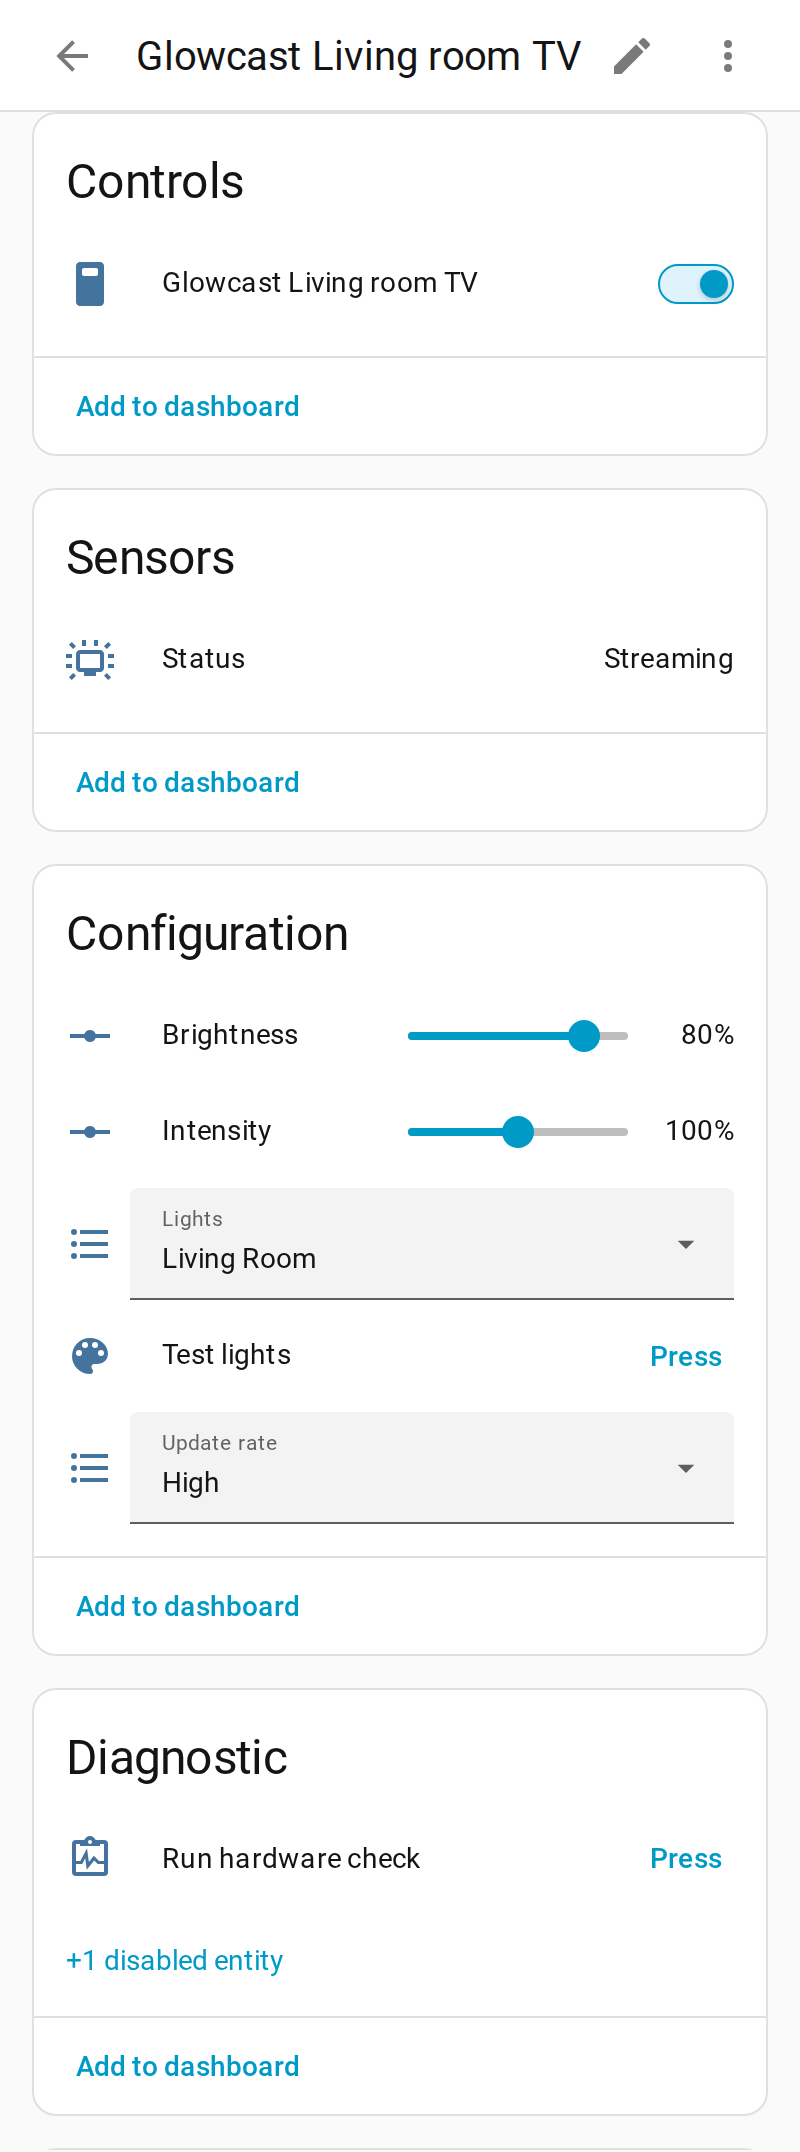
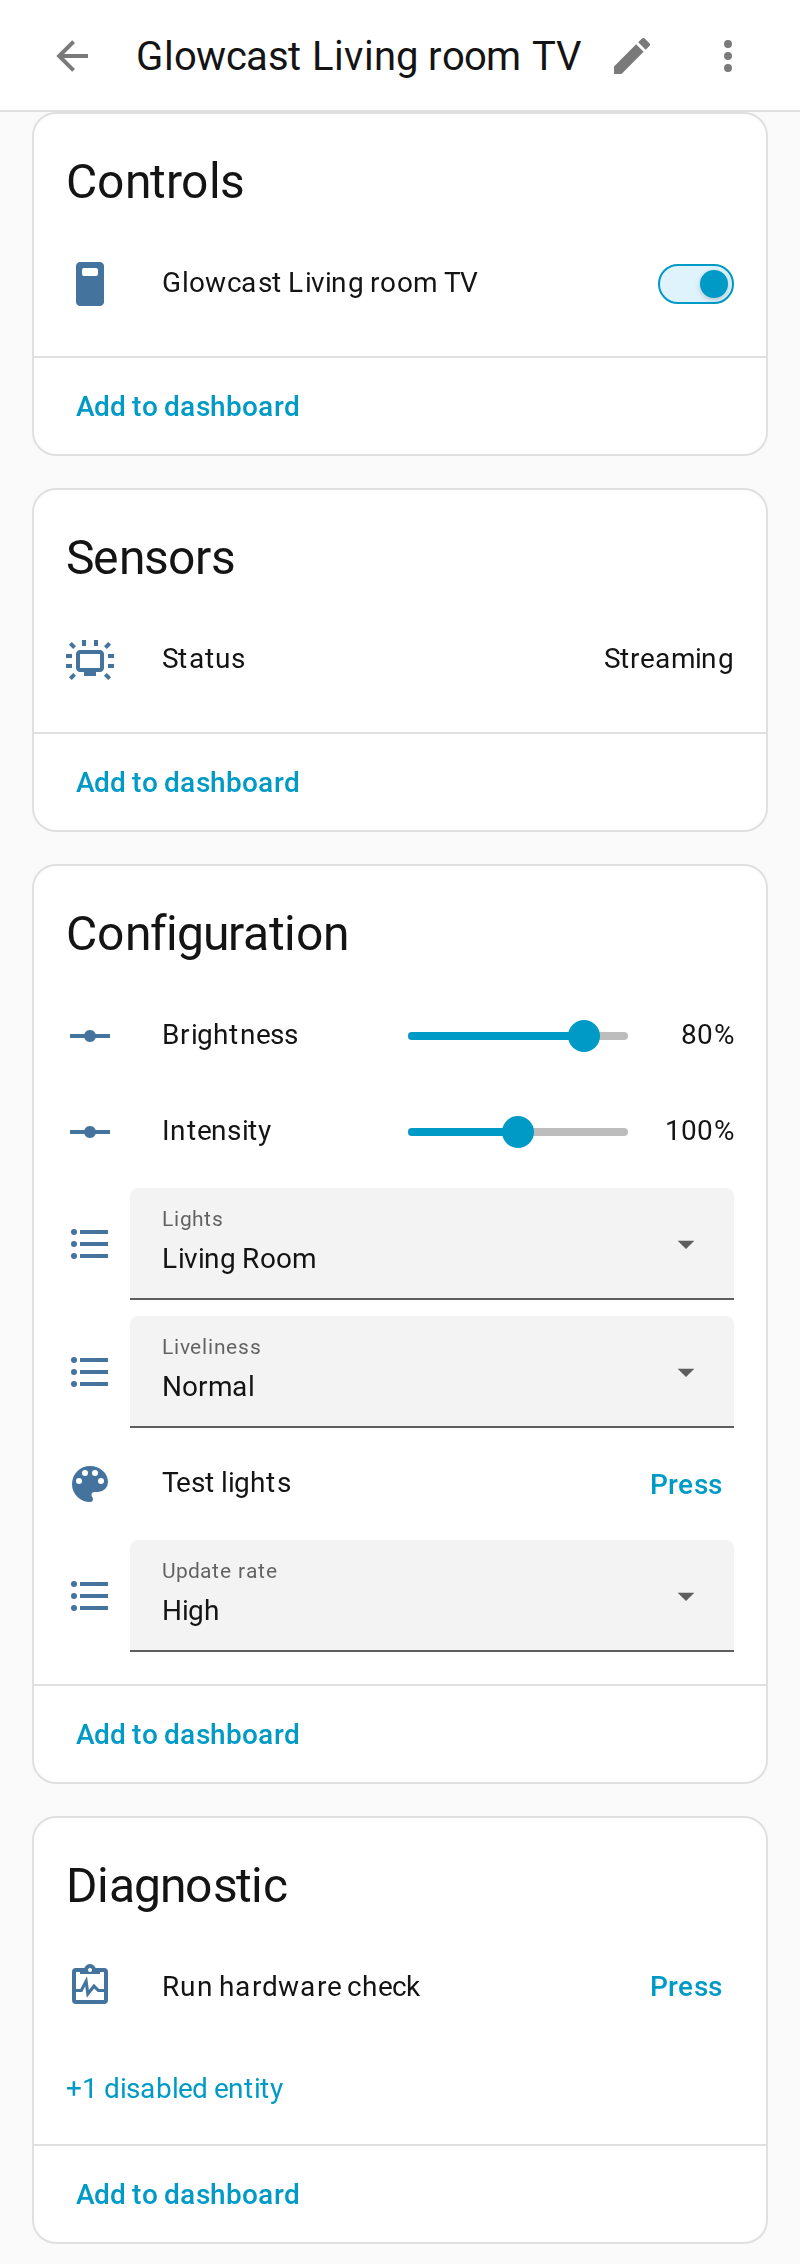
Device page images and the combined settings GIF with Liveliness
Made again from the demo after v0.4.0 came in (#16): the Liveliness
select sits under Configuration and in the settings step. Same framing
as #275 (mobile view, 400 px at scale 2, from Controls down to
Diagnostic), so the images are 56 css px taller (800x2264).

diff --git a/website/pages/docs/home-assistant-lights.md b/website/pages/docs/home-assistant-lights.md
@@ -32,7 +32,7 @@ To check the places, press **Test lights** on Glowcast's device ([Test the light
 
 On Glowcast's device page, under **Configuration**, the **Lights** entity shows what the lights follow: the Home Assistant area or light group, or *Chosen lights* while you use single lights. Pick another area or group there, from a dashboard or with an automation; see [Settings](settings.md#settings-on-the-device-page).
 
-![Glowcast's device page in Home Assistant with Home Assistant lights while syncing: the switch on under Controls, the status Streaming under Sensors, and under Configuration brightness 80 %, intensity 100 %, Lights Living Room, the Test lights button and update rate High, and the Run hardware check button under Diagnostic.](../images/device-page-ha-lights.png){ width="400" loading=lazy }
+![Glowcast's device page in Home Assistant with Home Assistant lights while syncing: the switch on under Controls, the status Streaming under Sensors, and under Configuration brightness 80 %, intensity 100 %, Lights Living Room, liveliness Normal, the Test lights button and update rate High, and the Run hardware check button under Diagnostic.](../images/device-page-ha-lights.png){ width="400" loading=lazy }
 
 *The device page with Home Assistant lights: the switch, the status, and Lights under Configuration.*
 
@@ -71,7 +71,7 @@ One Glowcast can drive an entertainment area and Home Assistant lights together,
 - Only when both are lost does Glowcast stop, as it does for one.
 - Switching off (or the picture source off, or Home Assistant stopping) releases the area and puts every Home Assistant light back as it was.
 
-![Glowcast's settings screen in Home Assistant: choose Hue area and Home Assistant lights, keep the entertainment area TV area, follow the Home Assistant area Living Room, put Floor lamp left and Light bar right of the screen, keep brightness, intensity and the update rate, save, then the device page with Entertainment area and Lights under Configuration.](../images/combined-settings-ha-lights.gif){ width="400" loading=lazy }
+![Glowcast's settings screen in Home Assistant: choose Hue area and Home Assistant lights, keep the entertainment area TV area, follow the Home Assistant area Living Room, put Floor lamp left and Light bar right of the screen, keep brightness, intensity, the update rate and the liveliness, save, then the device page with Entertainment area and Lights under Configuration.](../images/combined-settings-ha-lights.gif){ width="400" loading=lazy }
 
 *An entertainment area and Home Assistant lights together, under Configure: the area, the Home Assistant lights and their places, brightness, intensity and the update rate, then both on the device page.*
 

diff --git a/website/pages/guide/setup.md b/website/pages/guide/setup.md
@@ -57,7 +57,7 @@ An entertainment area and Home Assistant lights together are set up under **Conf
 3. The Home Assistant lights' steps, as above. A light that is already in the entertainment area cannot also be a Home Assistant light: the step says which lights, and you pick others.
 4. **Glowcast settings**: brightness, intensity, the update rate and the liveliness, which apply to both.
 
-![Glowcast's settings screen in Home Assistant: choose Hue area and Home Assistant lights, keep the entertainment area TV area, follow the Home Assistant area Living Room, put Floor lamp left and Light bar right of the screen, keep brightness, intensity and the update rate, save, then the device page with Entertainment area and Lights under Configuration.](../images/combined-settings-ha-lights.gif){ width="400" }
+![Glowcast's settings screen in Home Assistant: choose Hue area and Home Assistant lights, keep the entertainment area TV area, follow the Home Assistant area Living Room, put Floor lamp left and Light bar right of the screen, keep brightness, intensity, the update rate and the liveliness, save, then the device page with Entertainment area and Lights under Configuration.](../images/combined-settings-ha-lights.gif){ width="400" }
 
 *An entertainment area and Home Assistant lights together, under Configure: the area, the Home Assistant lights and their places, brightness, intensity and the update rate, then both on the device page.*
 
